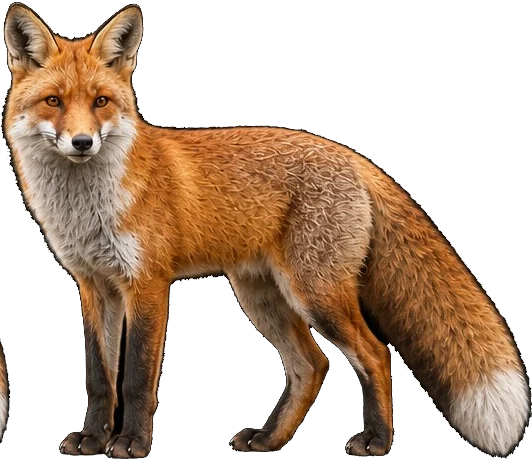
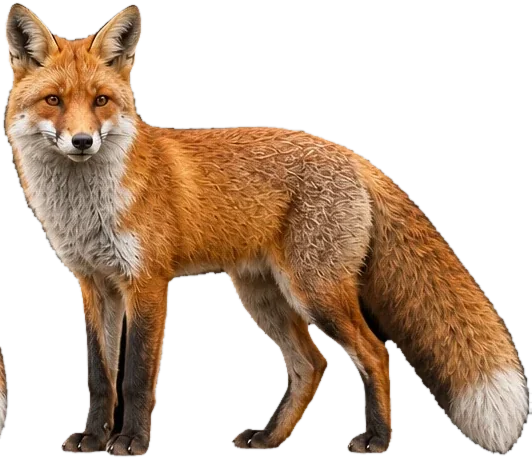
Real cut-outs for wild boar, hedgehog, hare, squirrel, badger and red fox from Per's sheets: sheet slicer, black-background keying for the fox, quarter view and resting pose, species picker in the camera test
Claude-Session: https://claude.ai/code/session_01L9cAHCrmki1qSQ1gMNTwWs

diff --git a/src/app/field/camera/CameraTest.tsx b/src/app/field/camera/CameraTest.tsx
@@ -1,6 +1,7 @@
 "use client";
 
 import { useEffect, useState } from "react";
+import { ALL_SPECIES, SPECIES, type SpeciesId } from "@/engine/species";
 import { listPhotos, photoId, savePhoto } from "@/storage/photos";
 import { CameraView, prepareCameraView, type CameraMetrics, type Pose, type ShotResult } from "../../_client/CameraView";
 import { animalManifest, type AnimalManifest } from "../../_client/animalImages";
@@ -23,6 +24,7 @@ export function CameraTest() {
   const [orientation, setOrientation] = useState<OrientationStatus>("unsupported");
   const [dist, setDist] = useState(20);
   const [pose, setPose] = useState<Pose>("calm");
+  const [species, setSpecies] = useState<SpeciesId>("roe_deer");
   const [animalHeading, setAnimalHeading] = useState(90);
   const [bearing, setBearing] = useState(0);
   const [shot, setShot] = useState<{ url: string; blob: Blob; r: ShotResult } | null>(null);
@@ -76,10 +78,16 @@ export function CameraTest() {
         <p>{t("spike.intro")}</p>
         <label className="field">{t("spike.distance", { m: dist })}<input type="range" min={5} max={60} value={dist} onChange={(e) => setDist(Number(e.target.value))} /></label>
         <label className="field">{t("spike.view", { deg: animalHeading })}<input type="range" min={0} max={359} step={15} value={animalHeading} onChange={(e) => setAnimalHeading(Number(e.target.value))} /></label>
+        <label className="field">{t("spike.species")}
+          <select value={species} onChange={(e) => setSpecies(e.target.value as SpeciesId)} data-testid="species">
+            {ALL_SPECIES.map((id) => <option key={id} value={id}>{t(`species.${id}`)}{manifest?.species[id]?.placeholder === false ? "" : " *"}</option>)}
+          </select>
+        </label>
         <div className="seg">
           <span>{t("spike.pose")}</span>
           <button className={`btn small ${pose === "calm" ? "on" : ""}`} onClick={() => setPose("calm")}>{t("spike.poseCalm")}</button>
           <button className={`btn small ${pose === "alert" ? "on" : ""}`} onClick={() => setPose("alert")}>{t("spike.poseAlert")}</button>
+          <button className={`btn small ${pose === "rest" ? "on" : ""}`} onClick={() => setPose("rest")}>{t("spike.poseRest")}</button>
         </div>
         <button className="btn primary wide" onClick={openCamera} data-testid="open-camera">{t("camera.open")}</button>
         <p className="muted">{t("spike.photos", { n: count })}</p>
@@ -103,7 +111,7 @@ export function CameraTest() {
       </div>
       {open && manifest && (
         <CameraView
-          target={{ bearingDeg: bearing, distM: dist, headingDeg: (bearing + animalHeading) % 360, heightM: 0.8, photoDistM: 30, pose, images: manifest.species.roe_deer.views }}
+          target={{ bearingDeg: bearing, distM: dist, headingDeg: (bearing + animalHeading) % 360, heightM: SPECIES[species].heightM, photoDistM: SPECIES[species].photoM, pose, images: manifest.species[species].views }}
           canShoot
           orientation={orientation}
           onClose={() => setOpen(false)}

diff --git a/src/tests/unit/images.test.ts b/src/tests/unit/images.test.ts
@@ -12,12 +12,24 @@ describe("djurbilder (manifestet)", () => {
       const s = manifest.species[id];
       expect(s, id).toBeDefined();
       expect(s.license, id).toBeTruthy();
-      for (const v of ["side", "front", "back"]) for (const pose of ["calm", "alert"]) {
+      const views = ["side", "front", "back", ...(s.views.quarter ? ["quarter"] : [])];
+      for (const v of views) for (const pose of ["calm", "alert", ...(s.views[v].rest ? ["rest"] : [])]) {
         const im = s.views[v][pose];
         expect(existsSync(path.join(root, im.src)), `${id} ${v} ${pose}`).toBe(true);
         expect(im.aspect).toBeGreaterThan(0.2);
         expect(im.aspect).toBeLessThan(8);
       }
+    }
+  });
+});
+
+describe("riktiga bilder", () => {
+  it("vildsvin, igelkott, hare, ekorre, grävling och räv har riktiga bilder med trekvart och liggande pose; resten är platshållare", () => {
+    const real = ALL_SPECIES.filter((id) => manifest.species[id].placeholder === false);
+    expect(real.sort()).toEqual(["badger", "hare", "hedgehog", "red_fox", "squirrel", "wild_boar"]);
+    for (const id of real) {
+      expect(manifest.species[id].views.quarter.calm.src).toMatch(/\.webp$/);
+      expect(manifest.species[id].views.side.rest.src).toMatch(/side-lie\.webp$/);
     }
   });
 });

diff --git a/src/app/globals.css b/src/app/globals.css
@@ -159,3 +159,4 @@ h1, h2, h3 { margin: 0; letter-spacing: 0.01em; }
 .profilerow { justify-content: space-between; align-items: center; }
 .warn-text { color: var(--warn); }
 .profilechip { align-self: center; background: transparent; border: 1px solid #ffffff22; color: var(--ink); border-radius: 999px; padding: 6px 14px; font: inherit; font-size: 14px; cursor: pointer; }
+.field select { min-height: 44px; border-radius: 10px; background: var(--bg); color: var(--ink); border: 1px solid #ffffff22; padding: 0 10px; font: inherit; }

diff --git a/src/i18n/en.ts b/src/i18n/en.ts
@@ -285,6 +285,9 @@ export const en: Record<MessageKey, string> = {
   "backup.reminder": "You haven't exported your finds for a while. Make a backup in the settings.",
   "backup.reminderAction": "Export",
 
+  "spike.species": "Species (* = placeholder)",
+  "spike.poseRest": "Resting",
+
   "lang.sv": "Svenska",
   "lang.en": "English",
 };

diff --git a/src/i18n/sv.ts b/src/i18n/sv.ts
@@ -286,6 +286,9 @@ export const sv = {
   "backup.reminder": "Du har inte exporterat dina fynd på ett tag. Gör en säkerhetskopia i inställningarna.",
   "backup.reminderAction": "Exportera",
 
+  "spike.species": "Art (* = platshållare)",
+  "spike.poseRest": "Vilar",
+
   "lang.sv": "Svenska",
   "lang.en": "English",
 } as const;
